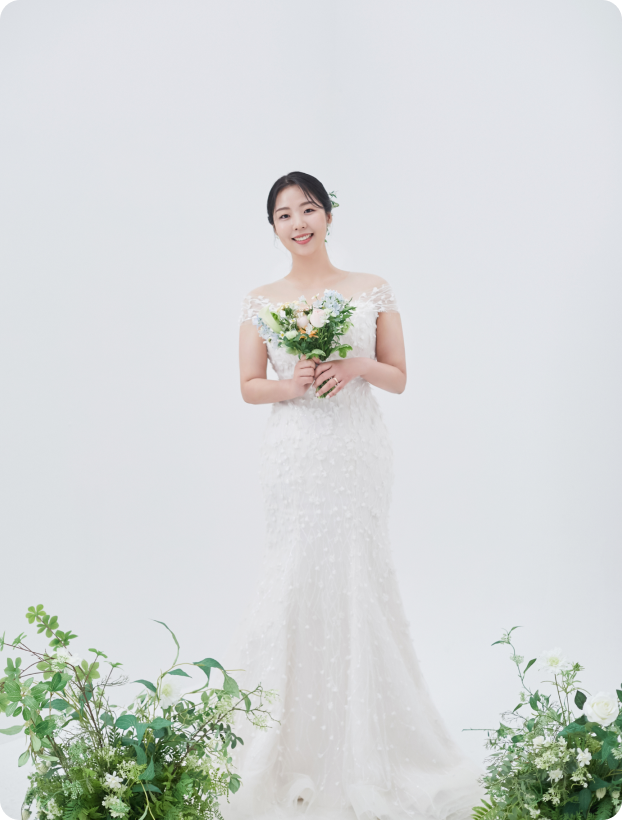
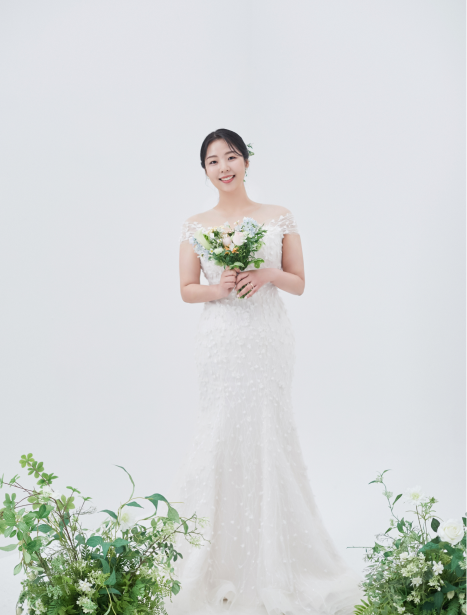
꽃잎,사진축소

diff --git a/index.html b/index.html
@@ -48,12 +48,12 @@
   <script type='text/javascript'>     
     $(document).ready(function(){
         $(document).snowfall({
-            flakeCount: 60, // 눈의 량을 수치로 기술
-            minSize: 3, // 눈의 최소사이즈를 수치로 입력
-            maxSize: 10, // 눈의 최대 사이즈를 수치로 입력
-            minSpeed: 1, // 눈의 최소사이즈를 수치로 입력
-            maxSpeed: 3, // 최대속도를 수치로 입력
-            flakeColor: "#D47C63", // 눈의 색을 칼라코드로 입력
+            flakeCount: 70, // 눈의 량을 수치로 기술
+            minSize: 2, // 눈의 최소사이즈를 수치로 입력
+            maxSize: 8, // 눈의 최대 사이즈를 수치로 입력
+            minSpeed: 0.4, // 눈의 최소사이즈를 수치로 입력
+            maxSpeed: 5.5, // 최대속도를 수치로 입력
+            flakeColor: "#FF9B8D", // 눈의 색을 칼라코드로 입력
             // image: "img/arrow_w.png", // 이미지
             round : true, // 눈이 둥글면 true, 아니면 false
             shadow: false, // 눈의 그림자가 있으면, 없으면 false
@@ -552,46 +552,46 @@
   <div class="swiper swiper-container" style="display: none">
     <div class="swiper-wrapper slide-wrapper">
       <div class="swiper-slide">
-        <img src="img/wedding/01-1.png" title="TITLE 1" />
+        <img src="img/wedding/01.png" title="TITLE 1" />
       </div>
       <div class="swiper-slide">
-        <img src="img/wedding/02-1.png" title="TITLE 2" />
+        <img src="img/wedding/02.png" title="TITLE 2" />
       </div>
       <div class="swiper-slide">
-        <img src="img/wedding/03-1.png" title="TITLE 3" />
+        <img src="img/wedding/03.png" title="TITLE 3" />
       </div>
       <div class="swiper-slide">
-        <img src="img/wedding/04-1.png" title="TITLE 4" />
+        <img src="img/wedding/04.png" title="TITLE 4" />
       </div>
       <div class="swiper-slide">
-        <img src="img/wedding/05-1.png" title="TITLE 5" />
+        <img src="img/wedding/05.png" title="TITLE 5" />
       </div>
       <div class="swiper-slide">
-        <img src="img/wedding/06-1.png" title="TITLE 6" />
+        <img src="img/wedding/06.png" title="TITLE 6" />
       </div>
       <div class="swiper-slide">
         <img src="img/wedding/07-1.png" title="TITLE 7" />
       </div>
       <div class="swiper-slide">
-        <img src="img/wedding/08-1.png" title="TITLE 8" />
+        <img src="img/wedding/08.png" title="TITLE 8" />
       </div>
       <div class="swiper-slide">
-        <img src="img/wedding/09-1.png" title="TITLE 9" />
+        <img src="img/wedding/09.png" title="TITLE 9" />
       </div>
       <div class="swiper-slide">
-        <img src="img/wedding/10-1.png" title="TITLE 10" />
+        <img src="img/wedding/10.png" title="TITLE 10" />
       </div>
       <div class="swiper-slide">
-        <img src="img/wedding/11-1.png" title="TITLE 11" />
+        <img src="img/wedding/11.png" title="TITLE 11" />
       </div>
       <div class="swiper-slide">
-        <img src="img/wedding/12-1.png" title="TITLE 12" />
+        <img src="img/wedding/12.png" title="TITLE 12" />
       </div>
       <div class="swiper-slide">
-        <img src="img/wedding/13-1.png" title="TITLE 13" />
+        <img src="img/wedding/13.png" title="TITLE 13" />
       </div>
       <div class="swiper-slide">
-        <img src="img/wedding/14-1.png" title="TITLE 14" />
+        <img src="img/wedding/14.png" title="TITLE 14" />
       </div>
       <div class="swiper-slide">
         <img src="img/wedding/15-1.png" title="TITLE 15" />
@@ -600,34 +600,34 @@
         <img src="img/wedding/16-1.png" title="TITLE 16" />
       </div>
       <div class="swiper-slide">
-        <img src="img/wedding/17-1.png" title="TITLE 17" />
+        <img src="img/wedding/17.png" title="TITLE 17" />
       </div>
       <div class="swiper-slide">
-        <img src="img/wedding/18-1.png" title="TITLE 18" />
+        <img src="img/wedding/18.png" title="TITLE 18" />
       </div>
       <div class="swiper-slide">
-        <img src="img/wedding/19-1.png" title="TITLE 19" />
+        <img src="img/wedding/19.png" title="TITLE 19" />
       </div>
       <div class="swiper-slide">
-        <img src="img/wedding/20-1.png" title="TITLE 20" />
+        <img src="img/wedding/20.png" title="TITLE 20" />
       </div>
       <div class="swiper-slide">
-        <img src="img/wedding/21-1.png" title="TITLE 21" />
+        <img src="img/wedding/21.png" title="TITLE 21" />
       </div>
       <div class="swiper-slide">
-        <img src="img/wedding/22-1.png" title="TITLE 22" />
+        <img src="img/wedding/22.png" title="TITLE 22" />
       </div>
       <div class="swiper-slide">
-        <img src="img/wedding/23-1.png" title="TITLE 23" />
+        <img src="img/wedding/23.png" title="TITLE 23" />
       </div>
       <div class="swiper-slide">
-        <img src="img/wedding/24-1.png" title="TITLE 24" />
+        <img src="img/wedding/24.png" title="TITLE 24" />
       </div>
       <div class="swiper-slide">
-        <img src="img/wedding/25-1.png" title="TITLE 25" />
+        <img src="img/wedding/25.png" title="TITLE 25" />
       </div>
       <div class="swiper-slide">
-        <img src="img/wedding/26-1.png" title="TITLE 26" />
+        <img src="img/wedding/26.png" title="TITLE 26" />
       </div>
     </div>
     <div class="swiper-button-next"></div>
